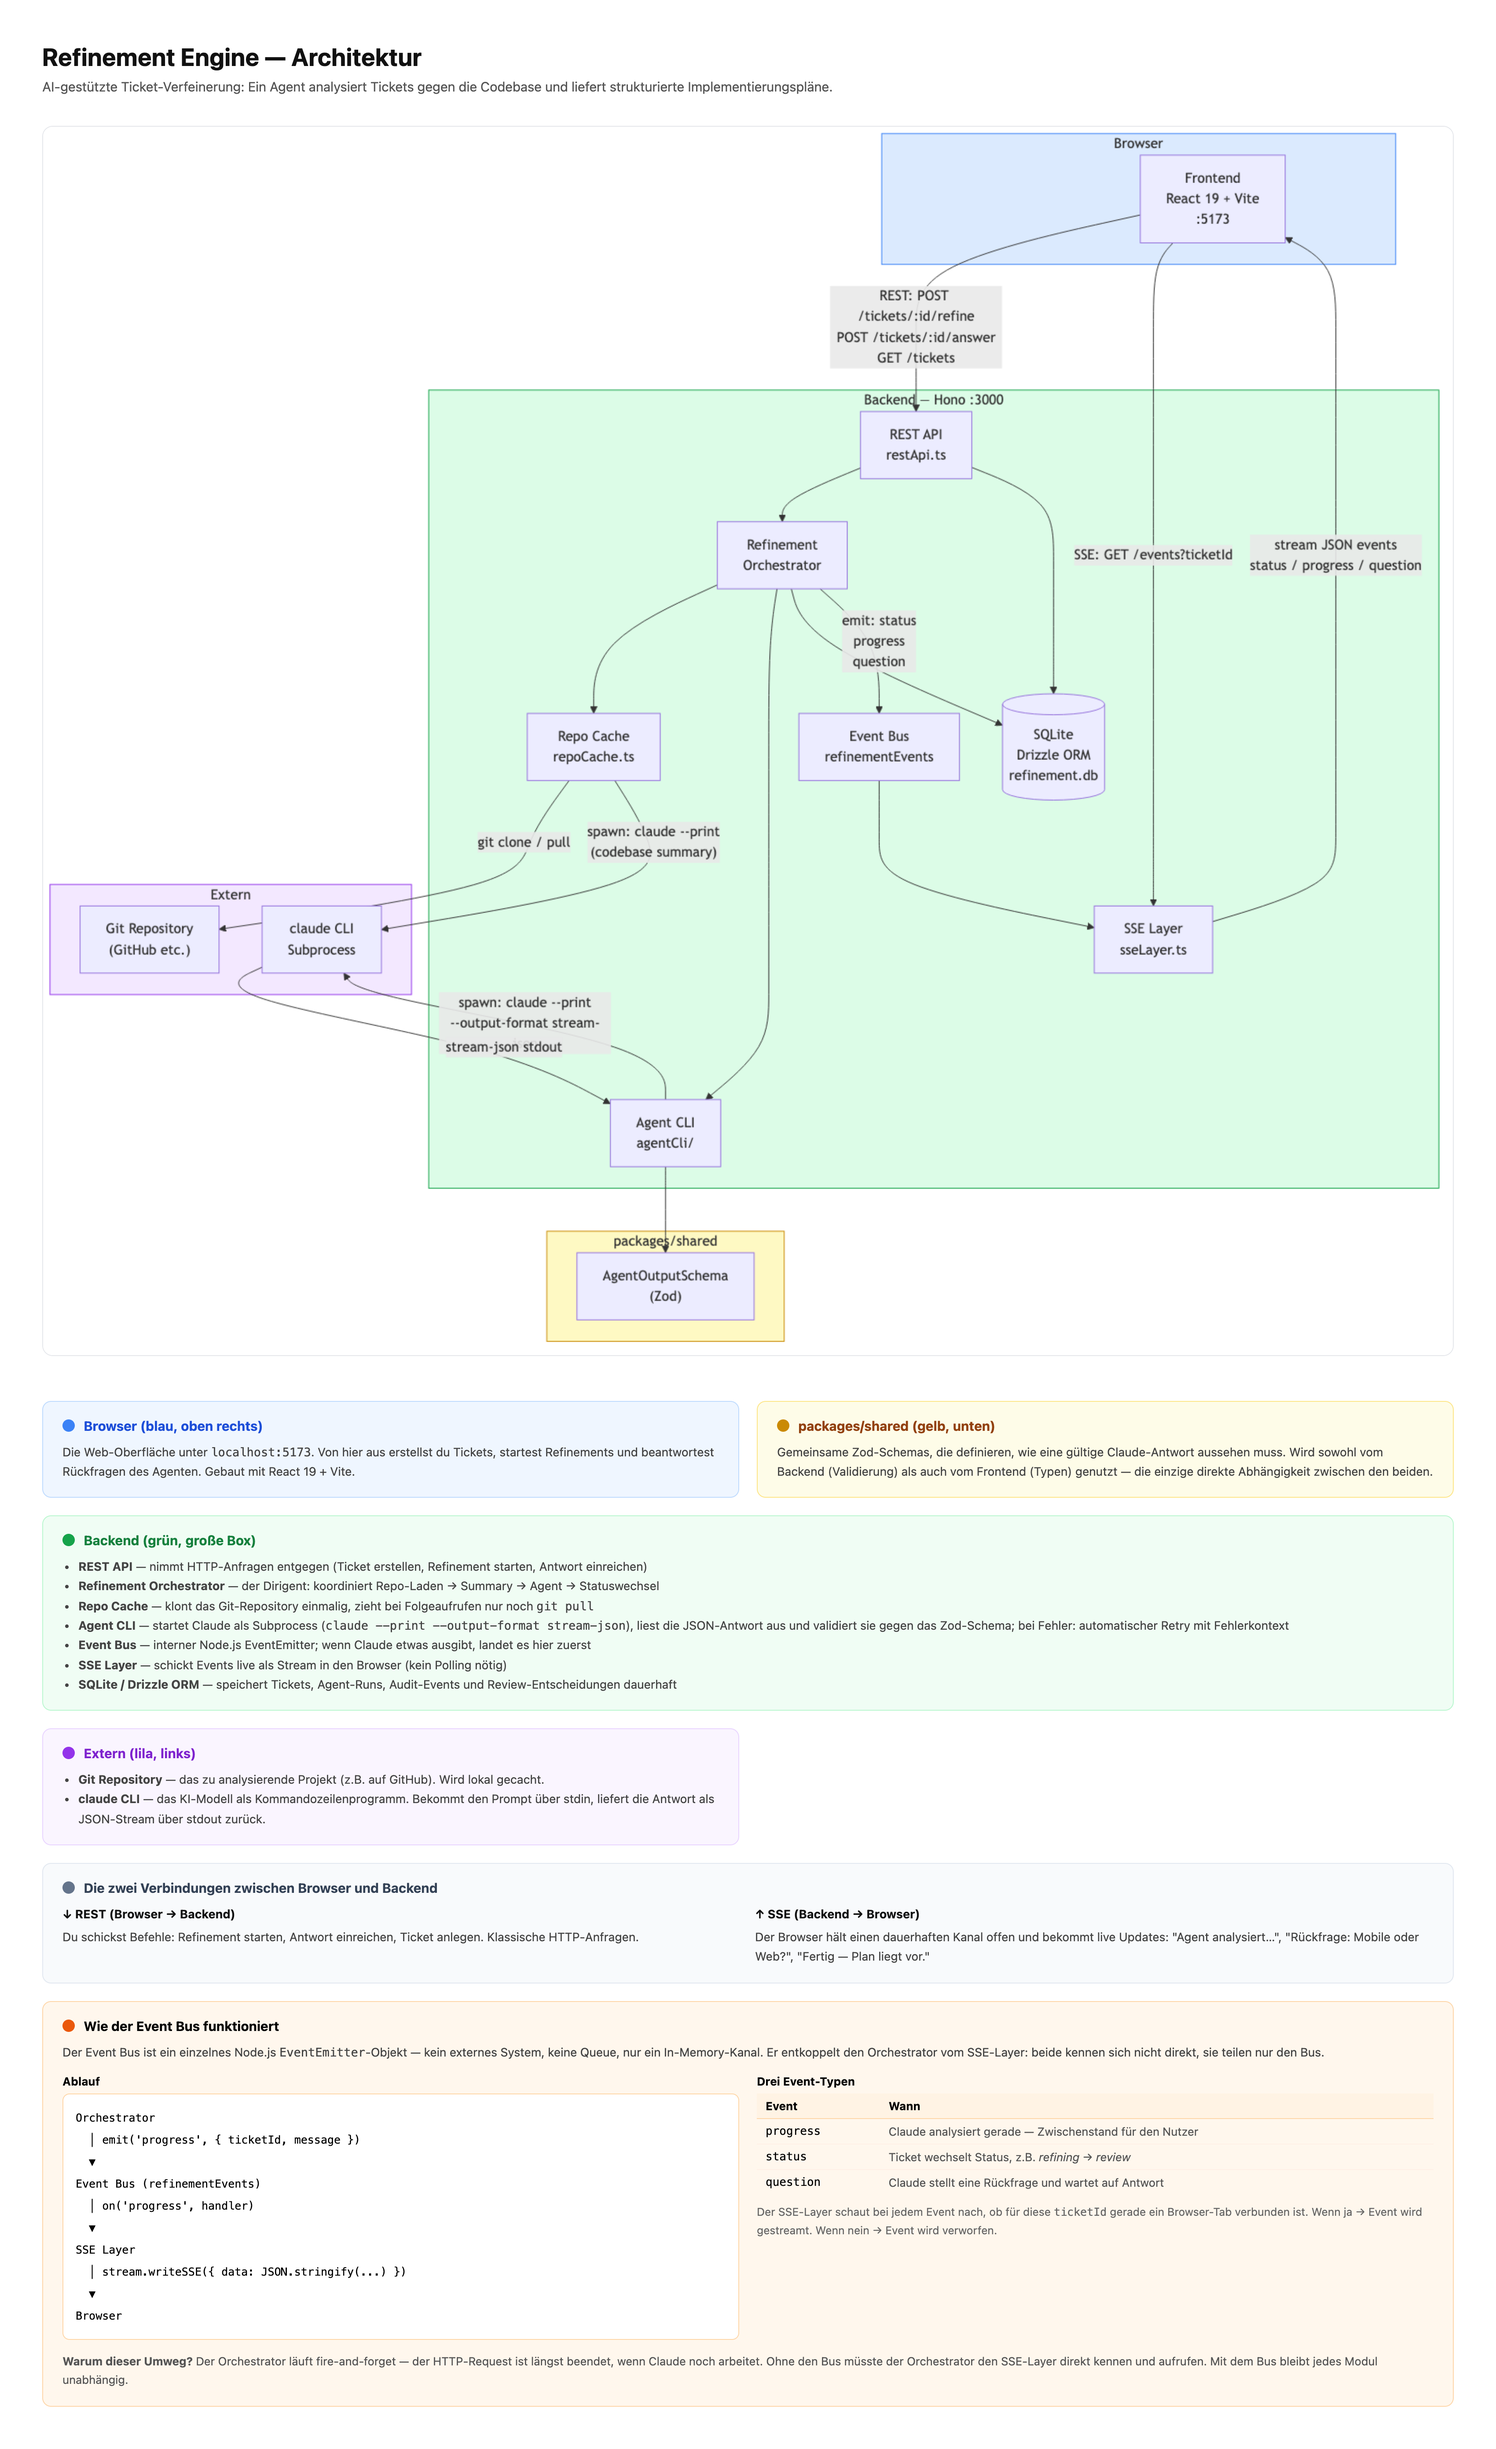
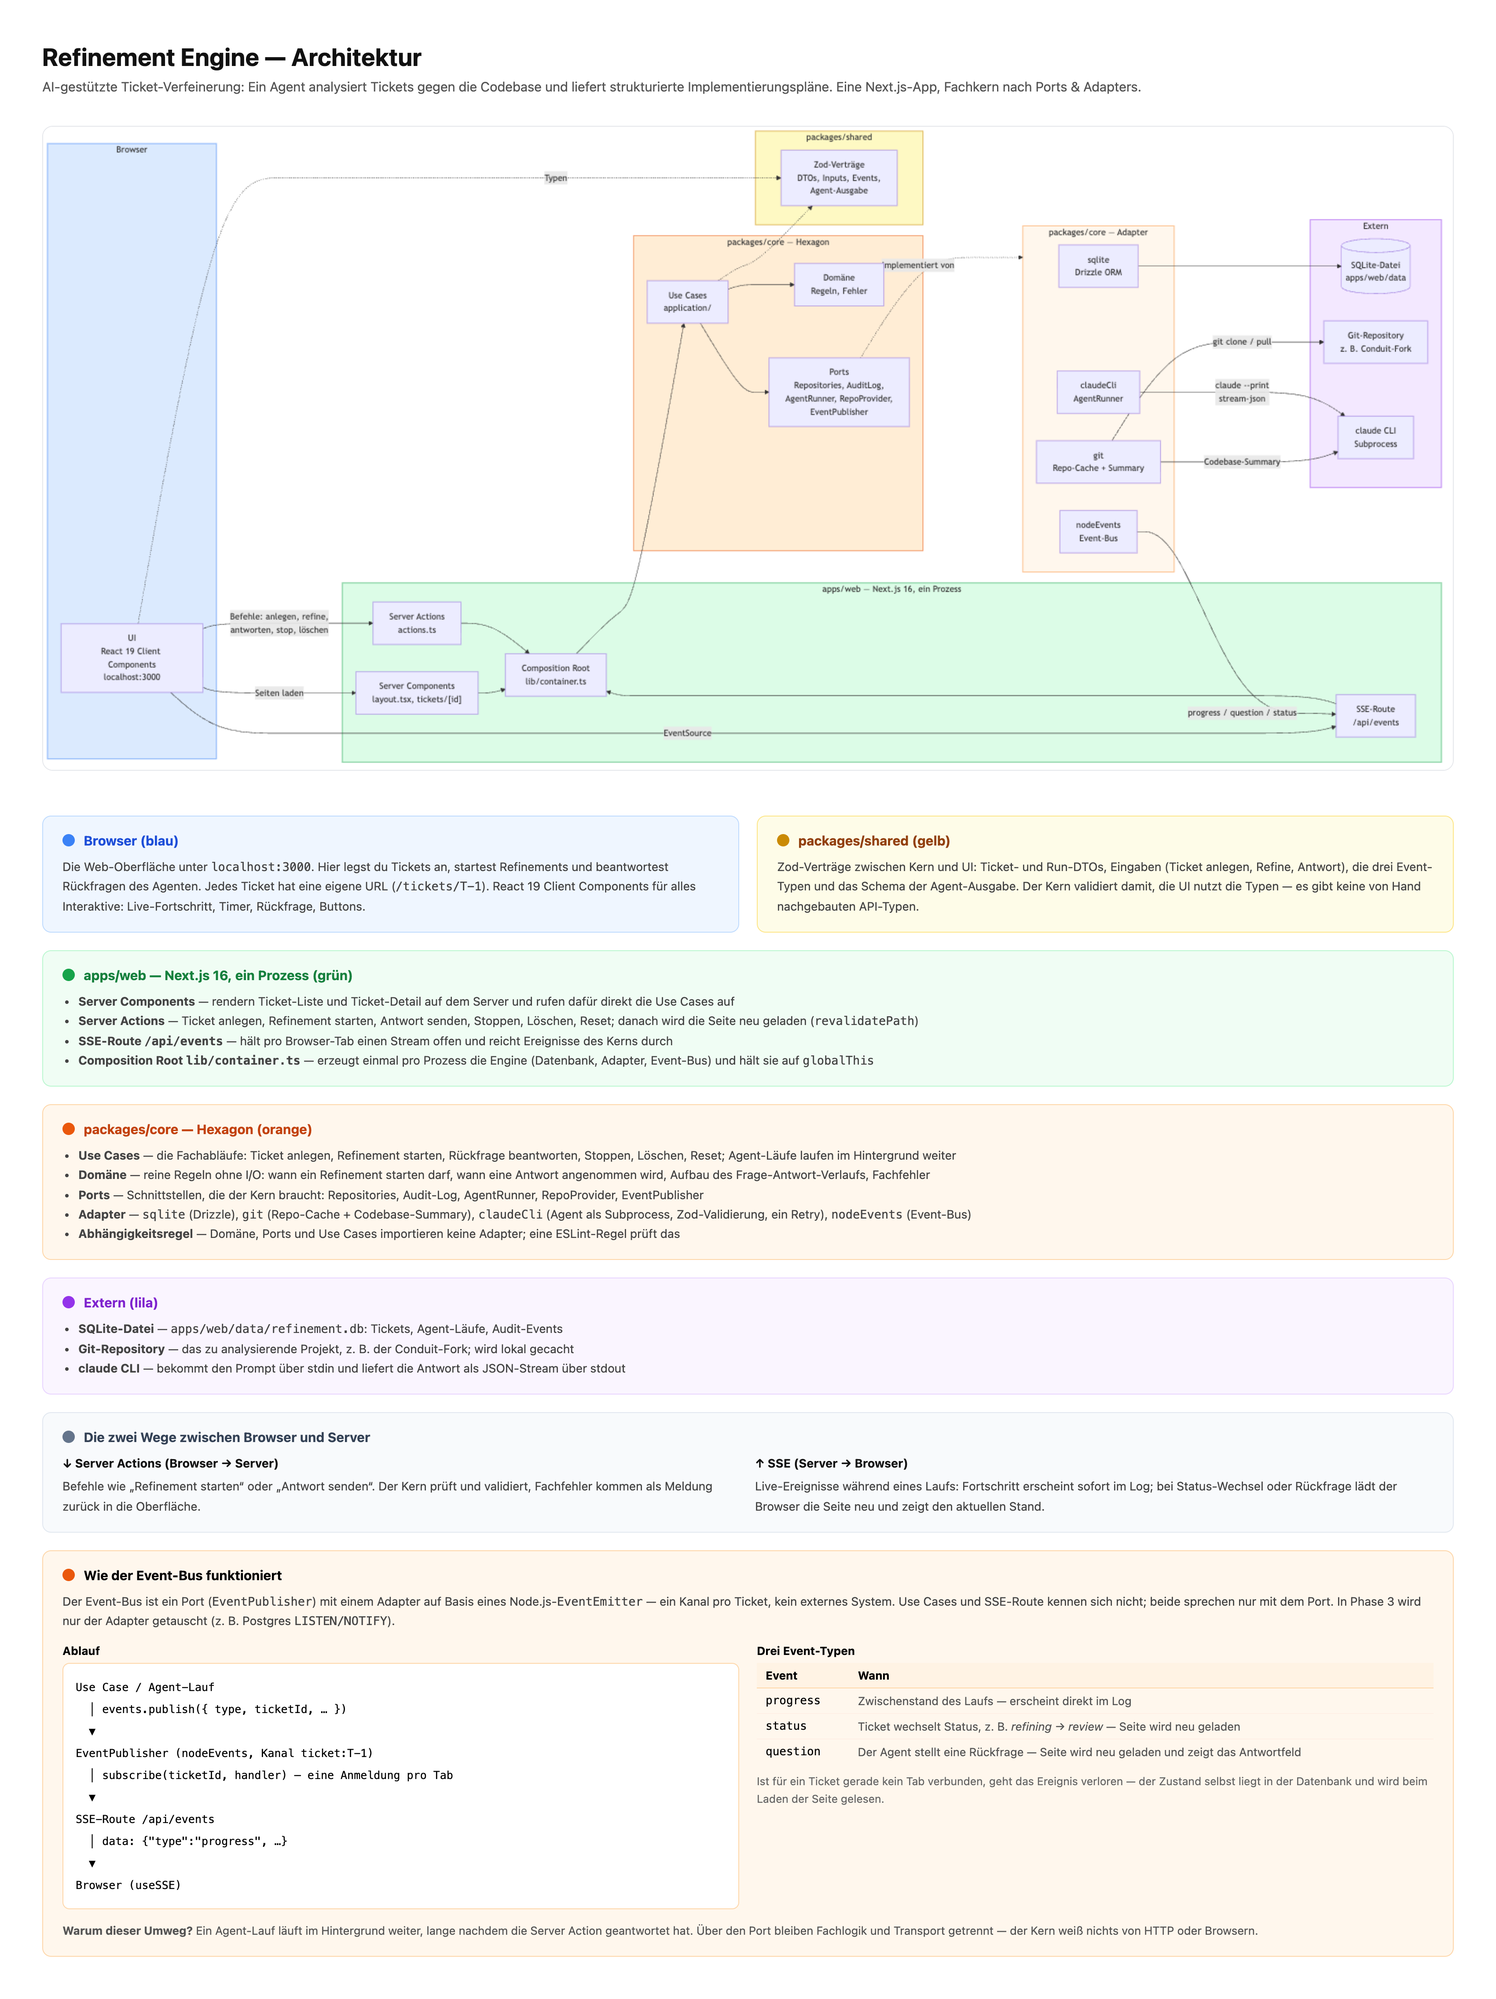
docs: annotierte Architektur-Seite auf Ist-Stand, Bild neu gerendert

diff --git a/docs/architecture-annotated.html b/docs/architecture-annotated.html
@@ -72,6 +72,8 @@
   .yellow h2 { color: #92400e; }
   .purple { background: #faf5ff; border-color: #e9d5ff; }
   .purple h2 { color: #7e22ce; }
+  .orange { background: #fff7ed; border-color: #fed7aa; }
+  .orange h2 { color: #c2410c; }
   .gray   { background: #f8fafc; border-color: #e2e8f0; grid-column: span 2; }
   .gray h2 { color: #334155; }
   .gray .arrows { display: grid; grid-template-columns: 1fr 1fr; gap: 16px; margin-top: 8px; }
@@ -81,7 +83,7 @@
 </head>
 <body>
   <h1>Refinement Engine — Architektur</h1>
-  <p class="subtitle">AI-gestützte Ticket-Verfeinerung: Ein Agent analysiert Tickets gegen die Codebase und liefert strukturierte Implementierungspläne.</p>
+  <p class="subtitle">AI-gestützte Ticket-Verfeinerung: Ein Agent analysiert Tickets gegen die Codebase und liefert strukturierte Implementierungspläne. Eine Next.js-App, Fachkern nach Ports &amp; Adapters.</p>
 
   <div class="diagram">
     <img src="architecture.png" alt="Architekturdiagramm">
@@ -90,68 +92,77 @@
   <div class="legend">
 
     <div class="block blue">
-      <h2><span class="dot" style="background:#3b82f6"></span>Browser (blau, oben rechts)</h2>
-      <p>Die Web-Oberfläche unter <code>localhost:5173</code>. Von hier aus erstellst du Tickets, startest Refinements und beantwortest Rückfragen des Agenten. Gebaut mit React 19 + Vite.</p>
+      <h2><span class="dot" style="background:#3b82f6"></span>Browser (blau)</h2>
+      <p>Die Web-Oberfläche unter <code>localhost:3000</code>. Hier legst du Tickets an, startest Refinements und beantwortest Rückfragen des Agenten. Jedes Ticket hat eine eigene URL (<code>/tickets/T-1</code>). React 19 Client Components für alles Interaktive: Live-Fortschritt, Timer, Rückfrage, Buttons.</p>
     </div>
 
     <div class="block yellow">
-      <h2><span class="dot" style="background:#ca8a04"></span>packages/shared (gelb, unten)</h2>
-      <p>Gemeinsame Zod-Schemas, die definieren, wie eine gültige Claude-Antwort aussehen muss. Wird sowohl vom Backend (Validierung) als auch vom Frontend (Typen) genutzt — die einzige direkte Abhängigkeit zwischen den beiden.</p>
+      <h2><span class="dot" style="background:#ca8a04"></span>packages/shared (gelb)</h2>
+      <p>Zod-Verträge zwischen Kern und UI: Ticket- und Run-DTOs, Eingaben (Ticket anlegen, Refine, Antwort), die drei Event-Typen und das Schema der Agent-Ausgabe. Der Kern validiert damit, die UI nutzt die Typen — es gibt keine von Hand nachgebauten API-Typen.</p>
     </div>
 
     <div class="block green" style="grid-column: span 2">
-      <h2><span class="dot" style="background:#16a34a"></span>Backend (grün, große Box)</h2>
+      <h2><span class="dot" style="background:#16a34a"></span>apps/web — Next.js 16, ein Prozess (grün)</h2>
       <ul>
-        <li><strong>REST API</strong> — nimmt HTTP-Anfragen entgegen (Ticket erstellen, Refinement starten, Antwort einreichen)</li>
-        <li><strong>Refinement Orchestrator</strong> — der Dirigent: koordiniert Repo-Laden → Summary → Agent → Statuswechsel</li>
-        <li><strong>Repo Cache</strong> — klont das Git-Repository einmalig, zieht bei Folgeaufrufen nur noch <code>git pull</code></li>
-        <li><strong>Agent CLI</strong> — startet Claude als Subprocess (<code>claude --print --output-format stream-json</code>), liest die JSON-Antwort aus und validiert sie gegen das Zod-Schema; bei Fehler: automatischer Retry mit Fehlerkontext</li>
-        <li><strong>Event Bus</strong> — interner Node.js EventEmitter; wenn Claude etwas ausgibt, landet es hier zuerst</li>
-        <li><strong>SSE Layer</strong> — schickt Events live als Stream in den Browser (kein Polling nötig)</li>
-        <li><strong>SQLite / Drizzle ORM</strong> — speichert Tickets, Agent-Runs, Audit-Events und Review-Entscheidungen dauerhaft</li>
+        <li><strong>Server Components</strong> — rendern Ticket-Liste und Ticket-Detail auf dem Server und rufen dafür direkt die Use Cases auf</li>
+        <li><strong>Server Actions</strong> — Ticket anlegen, Refinement starten, Antwort senden, Stoppen, Löschen, Reset; danach wird die Seite neu geladen (<code>revalidatePath</code>)</li>
+        <li><strong>SSE-Route <code>/api/events</code></strong> — hält pro Browser-Tab einen Stream offen und reicht Ereignisse des Kerns durch</li>
+        <li><strong>Composition Root <code>lib/container.ts</code></strong> — erzeugt einmal pro Prozess die Engine (Datenbank, Adapter, Event-Bus) und hält sie auf <code>globalThis</code></li>
       </ul>
     </div>
 
-    <div class="block purple">
-      <h2><span class="dot" style="background:#9333ea"></span>Extern (lila, links)</h2>
+    <div class="block orange" style="grid-column: span 2">
+      <h2><span class="dot" style="background:#ea580c"></span>packages/core — Hexagon (orange)</h2>
       <ul>
-        <li><strong>Git Repository</strong> — das zu analysierende Projekt (z.B. auf GitHub). Wird lokal gecacht.</li>
-        <li><strong>claude CLI</strong> — das KI-Modell als Kommandozeilenprogramm. Bekommt den Prompt über stdin, liefert die Antwort als JSON-Stream über stdout zurück.</li>
+        <li><strong>Use Cases</strong> — die Fachabläufe: Ticket anlegen, Refinement starten, Rückfrage beantworten, Stoppen, Löschen, Reset; Agent-Läufe laufen im Hintergrund weiter</li>
+        <li><strong>Domäne</strong> — reine Regeln ohne I/O: wann ein Refinement starten darf, wann eine Antwort angenommen wird, Aufbau des Frage-Antwort-Verlaufs, Fachfehler</li>
+        <li><strong>Ports</strong> — Schnittstellen, die der Kern braucht: Repositories, Audit-Log, AgentRunner, RepoProvider, EventPublisher</li>
+        <li><strong>Adapter</strong> — <code>sqlite</code> (Drizzle), <code>git</code> (Repo-Cache + Codebase-Summary), <code>claudeCli</code> (Agent als Subprocess, Zod-Validierung, ein Retry), <code>nodeEvents</code> (Event-Bus)</li>
+        <li><strong>Abhängigkeitsregel</strong> — Domäne, Ports und Use Cases importieren keine Adapter; eine ESLint-Regel prüft das</li>
+      </ul>
+    </div>
+
+    <div class="block purple" style="grid-column: span 2">
+      <h2><span class="dot" style="background:#9333ea"></span>Extern (lila)</h2>
+      <ul>
+        <li><strong>SQLite-Datei</strong> — <code>apps/web/data/refinement.db</code>: Tickets, Agent-Läufe, Audit-Events</li>
+        <li><strong>Git-Repository</strong> — das zu analysierende Projekt, z. B. der Conduit-Fork; wird lokal gecacht</li>
+        <li><strong>claude CLI</strong> — bekommt den Prompt über stdin und liefert die Antwort als JSON-Stream über stdout</li>
       </ul>
     </div>
 
     <div class="block gray" style="background:#f8fafc; border-color:#e2e8f0; grid-column: span 2">
-      <h2><span class="dot" style="background:#64748b"></span>Die zwei Verbindungen zwischen Browser und Backend</h2>
+      <h2><span class="dot" style="background:#64748b"></span>Die zwei Wege zwischen Browser und Server</h2>
       <div class="arrows">
         <div class="arrow-block">
-          <strong>↓ REST (Browser → Backend)</strong>
-          Du schickst Befehle: Refinement starten, Antwort einreichen, Ticket anlegen. Klassische HTTP-Anfragen.
+          <strong>↓ Server Actions (Browser → Server)</strong>
+          Befehle wie „Refinement starten“ oder „Antwort senden“. Der Kern prüft und validiert, Fachfehler kommen als Meldung zurück in die Oberfläche.
         </div>
         <div class="arrow-block">
-          <strong>↑ SSE (Backend → Browser)</strong>
-          Der Browser hält einen dauerhaften Kanal offen und bekommt live Updates: "Agent analysiert…", "Rückfrage: Mobile oder Web?", "Fertig — Plan liegt vor."
+          <strong>↑ SSE (Server → Browser)</strong>
+          Live-Ereignisse während eines Laufs: Fortschritt erscheint sofort im Log; bei Status-Wechsel oder Rückfrage lädt der Browser die Seite neu und zeigt den aktuellen Stand.
         </div>
       </div>
     </div>
 
     <div class="block" style="background:#fff7ed; border-color:#fed7aa; grid-column: span 2">
-      <h2><span class="dot" style="background:#ea580c"></span>Wie der Event Bus funktioniert</h2>
-      <p style="margin-bottom:14px">Der Event Bus ist ein einzelnes Node.js <code>EventEmitter</code>-Objekt — kein externes System, keine Queue, nur ein In-Memory-Kanal. Er entkoppelt den Orchestrator vom SSE-Layer: beide kennen sich nicht direkt, sie teilen nur den Bus.</p>
+      <h2><span class="dot" style="background:#ea580c"></span>Wie der Event-Bus funktioniert</h2>
+      <p style="margin-bottom:14px">Der Event-Bus ist ein Port (<code>EventPublisher</code>) mit einem Adapter auf Basis eines Node.js-<code>EventEmitter</code> — ein Kanal pro Ticket, kein externes System. Use Cases und SSE-Route kennen sich nicht; beide sprechen nur mit dem Port. In Phase 3 wird nur der Adapter getauscht (z. B. Postgres <code>LISTEN/NOTIFY</code>).</p>
 
       <div style="display:grid; grid-template-columns: 1fr 1fr; gap: 20px; margin-bottom: 14px">
         <div>
           <strong style="font-size:13px; display:block; margin-bottom:6px">Ablauf</strong>
           <div style="font-family: monospace; font-size: 12.5px; background:#fff; border:1px solid #fed7aa; border-radius:8px; padding:14px; line-height:2">
-            Orchestrator<br>
-            &nbsp;&nbsp;│ emit('progress', { ticketId, message })<br>
+            Use Case / Agent-Lauf<br>
+            &nbsp;&nbsp;│ events.publish({ type, ticketId, … })<br>
             &nbsp;&nbsp;▼<br>
-            Event Bus (refinementEvents)<br>
-            &nbsp;&nbsp;│ on('progress', handler)<br>
+            EventPublisher (nodeEvents, Kanal ticket:T-1)<br>
+            &nbsp;&nbsp;│ subscribe(ticketId, handler) — eine Anmeldung pro Tab<br>
             &nbsp;&nbsp;▼<br>
-            SSE Layer<br>
-            &nbsp;&nbsp;│ stream.writeSSE({ data: JSON.stringify(...) })<br>
+            SSE-Route /api/events<br>
+            &nbsp;&nbsp;│ data: {"type":"progress", …}<br>
             &nbsp;&nbsp;▼<br>
-            Browser
+            Browser (useSSE)
           </div>
         </div>
         <div>
@@ -166,23 +177,23 @@
             <tbody>
               <tr>
                 <td style="padding:6px 10px; border-bottom:1px solid #fff0e6; font-family:monospace">progress</td>
-                <td style="padding:6px 10px; border-bottom:1px solid #fff0e6; color:#555">Claude analysiert gerade — Zwischenstand für den Nutzer</td>
+                <td style="padding:6px 10px; border-bottom:1px solid #fff0e6; color:#555">Zwischenstand des Laufs — erscheint direkt im Log</td>
               </tr>
               <tr>
                 <td style="padding:6px 10px; border-bottom:1px solid #fff0e6; font-family:monospace">status</td>
-                <td style="padding:6px 10px; border-bottom:1px solid #fff0e6; color:#555">Ticket wechselt Status, z.B. <em>refining → review</em></td>
+                <td style="padding:6px 10px; border-bottom:1px solid #fff0e6; color:#555">Ticket wechselt Status, z. B. <em>refining → review</em> — Seite wird neu geladen</td>
               </tr>
               <tr>
                 <td style="padding:6px 10px; font-family:monospace">question</td>
-                <td style="padding:6px 10px; color:#555">Claude stellt eine Rückfrage und wartet auf Antwort</td>
+                <td style="padding:6px 10px; color:#555">Der Agent stellt eine Rückfrage — Seite wird neu geladen und zeigt das Antwortfeld</td>
               </tr>
             </tbody>
           </table>
-          <p style="font-size:12.5px; color:#666; margin-top:10px">Der SSE-Layer schaut bei jedem Event nach, ob für diese <code>ticketId</code> gerade ein Browser-Tab verbunden ist. Wenn ja → Event wird gestreamt. Wenn nein → Event wird verworfen.</p>
+          <p style="font-size:12.5px; color:#666; margin-top:10px">Ist für ein Ticket gerade kein Tab verbunden, geht das Ereignis verloren — der Zustand selbst liegt in der Datenbank und wird beim Laden der Seite gelesen.</p>
         </div>
       </div>
 
-      <p style="font-size:13px; color:#555"><strong>Warum dieser Umweg?</strong> Der Orchestrator läuft fire-and-forget — der HTTP-Request ist längst beendet, wenn Claude noch arbeitet. Ohne den Bus müsste der Orchestrator den SSE-Layer direkt kennen und aufrufen. Mit dem Bus bleibt jedes Modul unabhängig.</p>
+      <p style="font-size:13px; color:#555"><strong>Warum dieser Umweg?</strong> Ein Agent-Lauf läuft im Hintergrund weiter, lange nachdem die Server Action geantwortet hat. Über den Port bleiben Fachlogik und Transport getrennt — der Kern weiß nichts von HTTP oder Browsern.</p>
     </div>
 
   </div>
